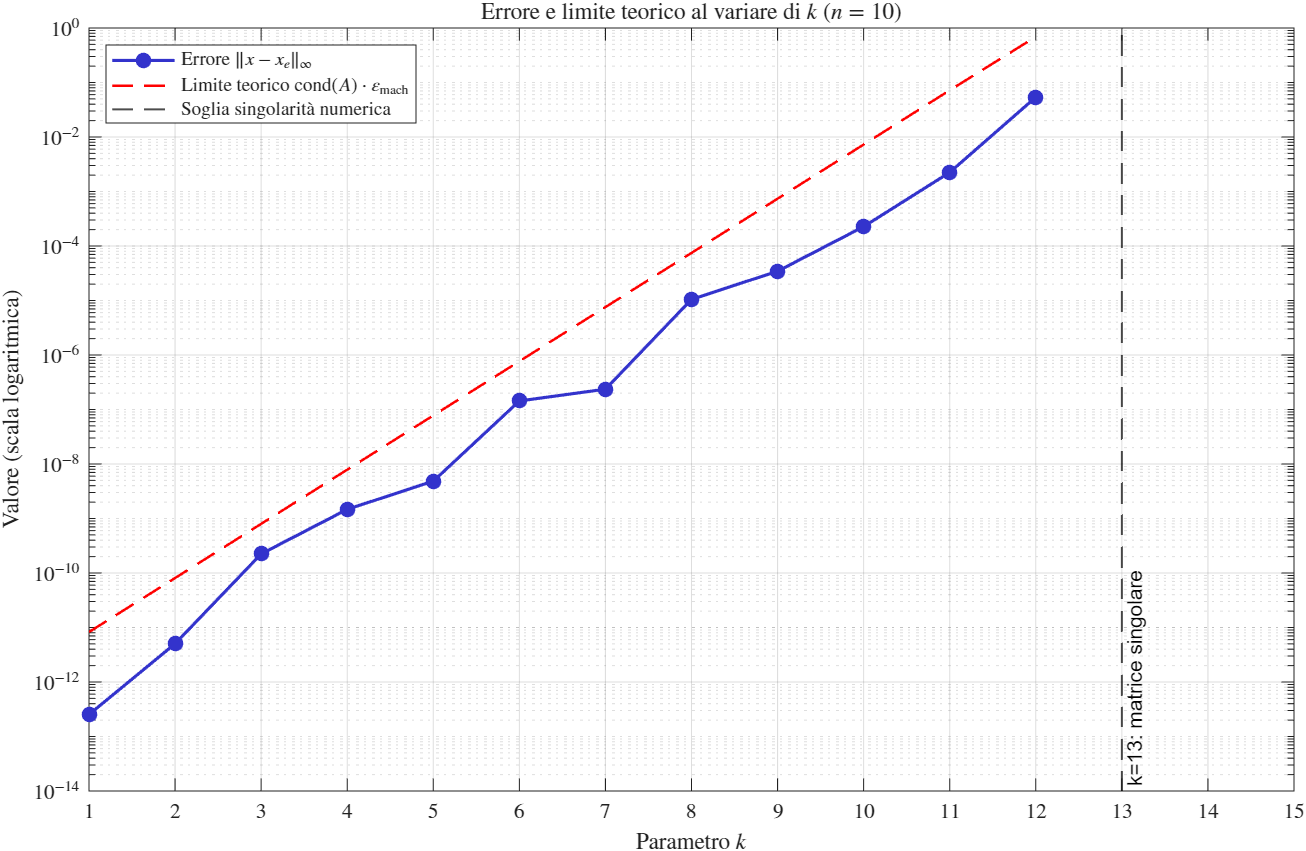
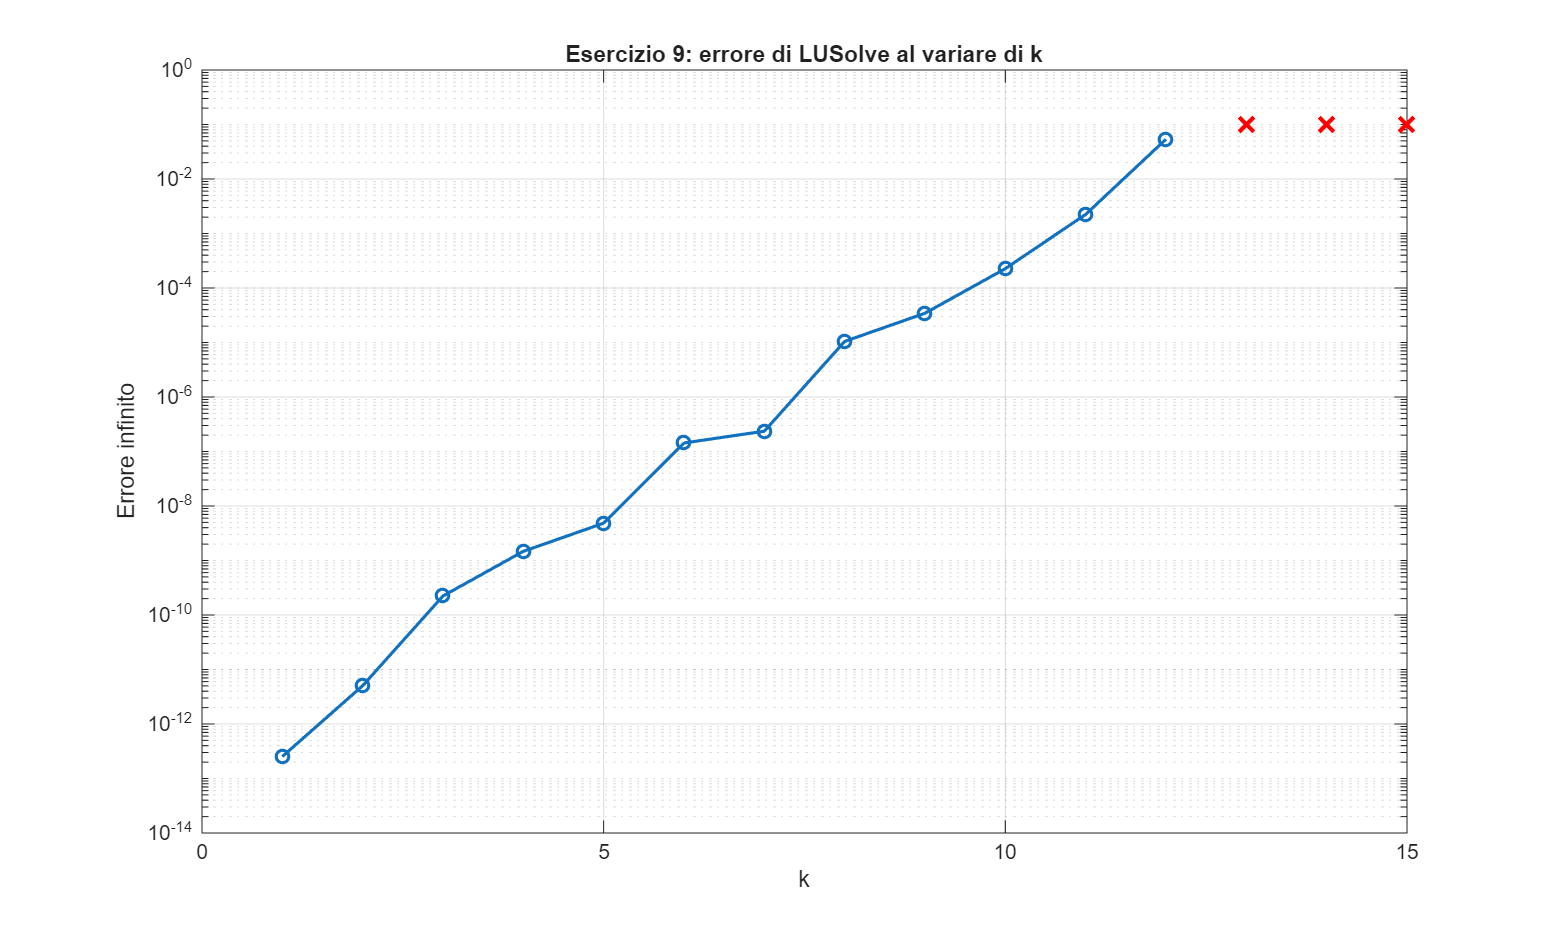
ES.9: rifare l'esercizio

diff --git a/codice-matlab/test_es09.m b/codice-matlab/test_es09.m
@@ -1,65 +1,43 @@
-% script per testare l'esercizio 9
+% script per l'esercizio 9
+% risoluzione dei sistemi generati da linsis.m con LUSolve.m
+
+clear;
+clc;
+close all;
+
 n = 10;
-fprintf('k \t cond(A, inf) \t errore (inf)\n');
-fprintf('-------------------------------------------\n');
+k_vals = (1:15).';
+x_esatta = ones(n, 1);
 
-ks = 1:15;
-conds = zeros(size(ks));
-errors = zeros(size(ks));
+sigma = zeros(size(k_vals));
+err_inf = nan(size(k_vals));
+cond2 = nan(size(k_vals));
+stato = cell(size(k_vals));
 
-for i = 1:length(ks)
-    k = ks(i);
+for idx = 1:length(k_vals)
+    k = k_vals(idx);
     [A, b] = linsis(n, k);
-    x_esatta = ones(n, 1);
-    
+
+    sigma(idx) = pi^(-2 * k);
+    cond2(idx) = cond(A);
+
     try
-        x_calc = LUSolve(A, b);
-        err = norm(x_calc - x_esatta, inf);
+        x = LUSolve(A, b);
+        err_inf(idx) = norm(x - x_esatta, inf);
+        stato{idx} = 'ok';
     catch ME
-        fprintf('Errore per k=%d: %s\n', k, ME.message);
-        err = NaN;
+        stato{idx} = ME.message;
     end
-    
-    c = cond(A, inf);
-    conds(i) = c;
-    errors(i) = err;
-    
-    fprintf('%d \t %.2e \t %.2e\n', k, c, err);
 end
 
-% --- aggiunta per il grafico ---
+T = table(k_vals, sigma, cond2, err_inf, stato, ...
+    'VariableNames', {'k', 'sigma', 'cond2', 'err_inf', 'stato'});
 
-% indici validi (errore calcolato con successo)
-valid = ~isnan(errors) & errors > 0;
+disp(T);
 
 figure;
-semilogy(ks(valid), errors(valid), '-o', ...
-    'LineWidth', 1.5, 'Color', [0.2 0.2 0.8], ...
-    'MarkerFaceColor', [0.2 0.2 0.8], ...
-    'DisplayName', 'Errore $\|x - x_e\|_\infty$');
-hold on;
-
-% limite teorico solo sui punti validi
-semilogy(ks(valid), conds(valid) * eps, '--r', ...
-    'LineWidth', 1.2, ...
-    'DisplayName', 'Limite teorico $\mathrm{cond}(A)\cdot\varepsilon_{\mathrm{mach}}$');
-
-% linea verticale che marca il collasso numerico
-k_singular = find(~valid, 1);
-if ~isempty(k_singular)
-    xline(ks(k_singular), '--k', ...
-        'LineWidth', 1, ...
-        'Label', sprintf('k=%d: matrice singolare', ks(k_singular)), ...
-        'LabelVerticalAlignment', 'bottom', ...
-        'DisplayName', 'Soglia singolarità numerica');
-end
-
-hold off;
-
-xlim([1 15]);
+semilogy(k_vals, err_inf, 'o-', 'LineWidth', 1.5, 'MarkerSize', 6);
 grid on;
-set(gca, 'XTick', ks, 'TickLabelInterpreter', 'latex');
-xlabel('Parametro $k$', 'Interpreter', 'latex');
-ylabel('Valore (scala logaritmica)', 'Interpreter', 'latex');
-title('Errore e limite teorico al variare di $k$ ($n=10$)', 'Interpreter', 'latex');
-legend('Location', 'northwest', 'Interpreter', 'latex');
+xlabel('k');
+ylabel('Errore in norma infinito');
+title('Esercizio 9: errore di LUSolve al variare di k');
